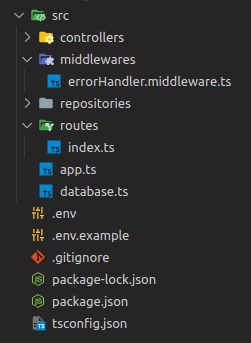
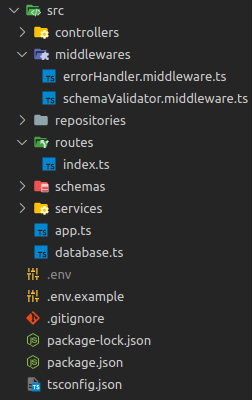
update: typescript template

Changed region(s): [[0.0279, 0.0, 1.0, 0.9913], [0.0837, 0.4373, 0.1116, 0.5248]]

diff --git a/templates/typescript/src/middlewares/errorHandler.middleware.ts b/templates/typescript/src/middlewares/errorHandler.middleware.ts
@@ -7,14 +7,19 @@ export function errorHandler(
   next: NextFunction
 ) {
   console.log(error);
+  const { message, type } = error;
 
-  if (error.type === "conflict") {
-    return res.sendStatus(409);
+  if (type === "conflict") {
+    return res.status(409).send(message ? message : "Conflict");
   }
-  if (error.type === "not_found") {
-    return res.sendStatus(404);
+  if (type === "not_found") {
+    return res.status(404).send(message ? message : "Not found");
   }
-  if (error.type === "unauthorized") return res.sendStatus(401);
-
+  if (type === "unauthorized") {
+    return res.status(401).send(message ? message : "Unauthorized");
+  }
+  if (type === "unprocessable_entity") {
+    return res.status(422).send(message ? message : "Unprocessable entity");
+  }
   res.sendStatus(500);
 }

diff --git a/templates/typescript/src/middlewares/schemaValidator.middleware.ts b/templates/typescript/src/middlewares/schemaValidator.middleware.ts
@@ -1,0 +1,13 @@
+import { NextFunction, Request, Response } from "express";
+import { Schema } from "joi";
+
+export function body(schema: Schema) {
+  return (req: Request, res: Response, next: NextFunction) => {
+    const { error } = schema.validate(req.body);
+    if (error) {
+      const { message } = error.details[0];
+      throw { type: "unprocessable_entity", message };
+    }
+    next();
+  };
+}
